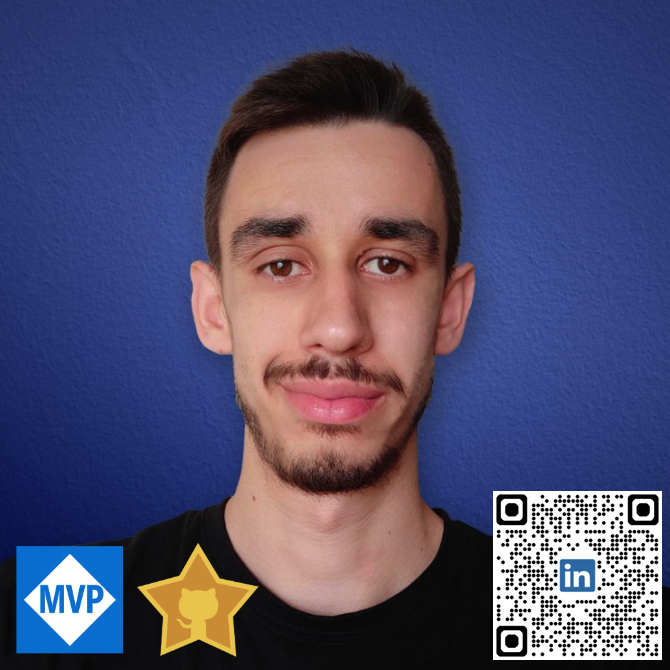
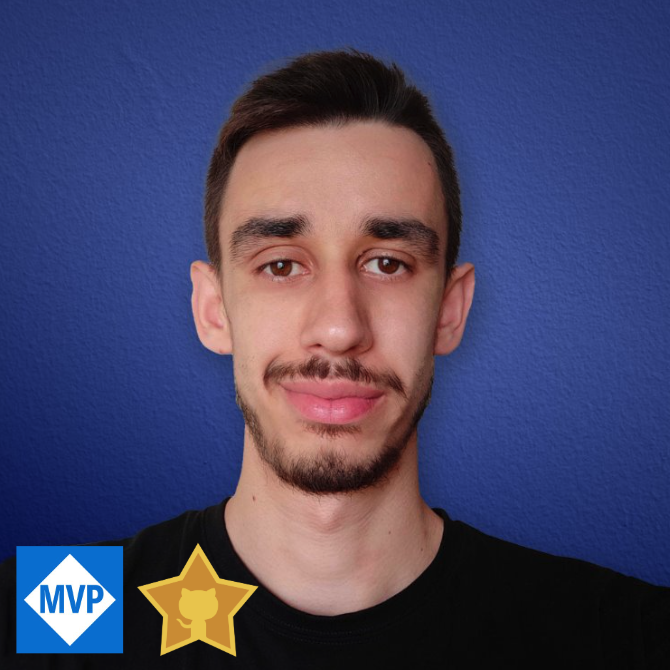
leftovers

Changed region(s): [[0.7164, 0.7164, 1.0, 0.9851]]

diff --git a/src/services/auth/api.ts b/src/services/auth/api.ts
@@ -1,5 +1,8 @@
-import { createMiddleware, createServerFn, json } from "@tanstack/react-start"
+import { createMiddleware, createServerFn } from "@tanstack/react-start"
 import { getRequestHeaders } from "@tanstack/react-start/server"
+import { eq } from "drizzle-orm"
+import { db } from "~/lib/db"
+import { userTable } from "~/lib/db/schema"
 import { UserMetaSchema } from "./schema"
 import { authService } from "./service.server"
 
@@ -21,7 +24,7 @@ export const userRequiredMiddleware = createMiddleware()
   .middleware([userMiddleware])
   .server(async ({ next, context }) => {
     if (!context.userSession) {
-      throw json(
+      throw Response.json(
         { message: "You must be logged in to do that!" },
         { status: 401 },
       )
@@ -34,5 +37,13 @@ export const updateUser = createServerFn({ method: "POST" })
   .inputValidator(UserMetaSchema)
   .middleware([userRequiredMiddleware])
   .handler(async ({ data, context: { userSession } }) => {
-    await authService.updateUser(userSession.user.id, data)
+    const update: Record<string, unknown> = { name: data.username }
+    if (data.imageUrl) {
+      update.image = data.imageUrl
+    }
+
+    await db
+      .update(userTable)
+      .set(update)
+      .where(eq(userTable.id, userSession.user.id))
   })

diff --git a/src/services/event-comment/api.ts b/src/services/event-comment/api.ts
@@ -4,6 +4,9 @@ import { loggingMiddleware } from "~/services/log/api"
 import { userRequiredMiddleware } from "~/services/auth/api"
 import { CreateEventCommentSchema, DeleteEventCommentSchema } from "./schema"
 import { eventCommentService } from "./service.server"
+import { randomUUID } from "crypto"
+import { eventCommentTable } from "~/lib/db/schema/event-comment"
+import { db } from "~/lib/db"
 
 export const listEventComments = createServerFn({ method: "GET" })
   .inputValidator(
@@ -19,7 +22,19 @@ export const createEventComment = createServerFn({ method: "POST" })
   .inputValidator(CreateEventCommentSchema)
   .middleware([loggingMiddleware, userRequiredMiddleware])
   .handler(async ({ data, context: { userSession } }) => {
-    return eventCommentService.createEventComment(userSession.user.id, data)
+    const [inserted] = await db
+      .insert(eventCommentTable)
+      .values({
+        id: randomUUID(),
+        eventId: data.eventId,
+        content: data.content,
+        rating: data.rating,
+        parentId: data.parentId,
+        userId: userSession.user.id,
+      })
+      .returning()
+
+    return inserted
   })
 
 export const deleteEventComment = createServerFn({ method: "POST" })

diff --git a/src/services/demo/api.ts b/src/services/demo/api.ts
@@ -17,7 +17,6 @@ export const myValidatedServerFunction = createServerFn()
   )
 
 // myValidatedServerFunction({ data: "Foo" })
-// myValidatedServerFunction({ data: "Foo" })
 myValidatedServerFunction({ data: 29 })
 
 import { z } from "zod"
@@ -30,9 +29,6 @@ export const myReallyCoolServerFunction = createServerFn({ method: "POST" })
     // You can safely access the database here
     return `Hello ${person.name} from the server! You are ${person.age} years old!`
   })
-
-// myReallyCoolServerFunction({ data: "Foo" })
-// myReallyCoolServerFunction({ data: 29 })
 
 // myReallyCoolServerFunction({ data: "Foo" })
 // myReallyCoolServerFunction({ data: 29 })

diff --git a/src/routes/api/demo.$name.ts b/src/routes/api/demo.$name.ts
@@ -1,5 +1,4 @@
 import { createFileRoute } from "@tanstack/react-router"
-import { json } from "@tanstack/react-start"
 import { setCookie, setResponseHeader } from "@tanstack/react-start/server"
 
 export const Route = createFileRoute("/api/demo/$name")({
@@ -10,7 +9,7 @@ export const Route = createFileRoute("/api/demo/$name")({
         setResponseHeader("X-My-Custom-Header", "Hello World!")
         setCookie("my-cookie", "cookie-value")
 
-        return json({
+        return Response.json({
           message: `Hello ${params.name}!`,
           method: request.method,
         })

diff --git a/.demo/slides/closing.md b/.demo/slides/closing.md
@@ -132,9 +132,10 @@ layout: two-columns
 ::right::
 # Leonardo Montini
 
-- Frontend Engineer & DevRel @ Claranet Italy
-- Open Source Maintainer (TanStack Form)
-- GitHub Star & Microsoft MVP
+- Software Engineer & DevRel @ Claranet Italy
+- Open Source Maintainer
+- GitHub Star (4x)
+- Microsoft MVP (3x)
 
 <br />
 
@@ -150,6 +151,5 @@ layout: two-columns
 
 </div>
 <div style="float: right; text-align: center;">
-    <img src=".demo/slides/img/qr-agenda.png" alt="Agenda QR Code" width="200" height="200" style="border-radius: 10px;"/>
-    <div style="font-weight: 600; margin-top: 5px">Share your feedback</div>
+    <img src=".demo/slides/img/qr-linkedin.png" alt="LinkedIn QR Code" width="200" height="200" style="border-radius: 10px;"/>
 </div>

diff --git a/.demo/slides/router/typesafety.md b/.demo/slides/router/typesafety.md
@@ -9,6 +9,7 @@ layout: section
 
 ---
 layout: quote
+TODO: Replace this with a mention of the jsday talk
 ---
 
 <h1 style="font-size: 2.5em">TypeScript isn't the same as type-safety. <br />

diff --git a/.demo/slides/start/intro.md b/.demo/slides/start/intro.md
@@ -47,6 +47,7 @@ layout: default
 
 ---
 layout: default
+TODO: Check if Router is still with that plugin name/import
 ---
 
 # Migration is simple

diff --git a/.demo/slides/start/deployment.md b/.demo/slides/start/deployment.md
@@ -9,6 +9,7 @@ layout: section
 
 ---
 layout: default
+TODO: Update if there are new sponsors
 ---
 
 # Hosting Adapters
